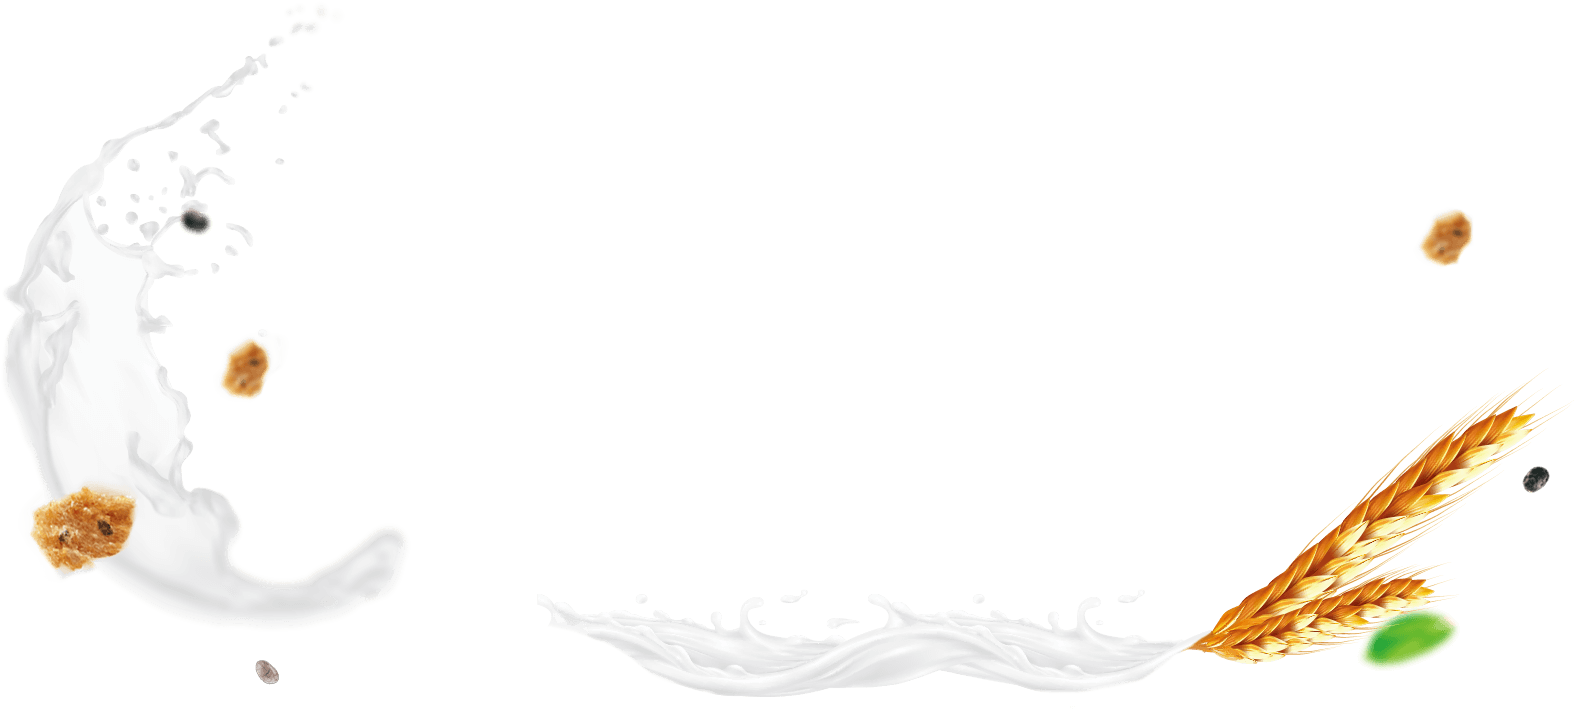
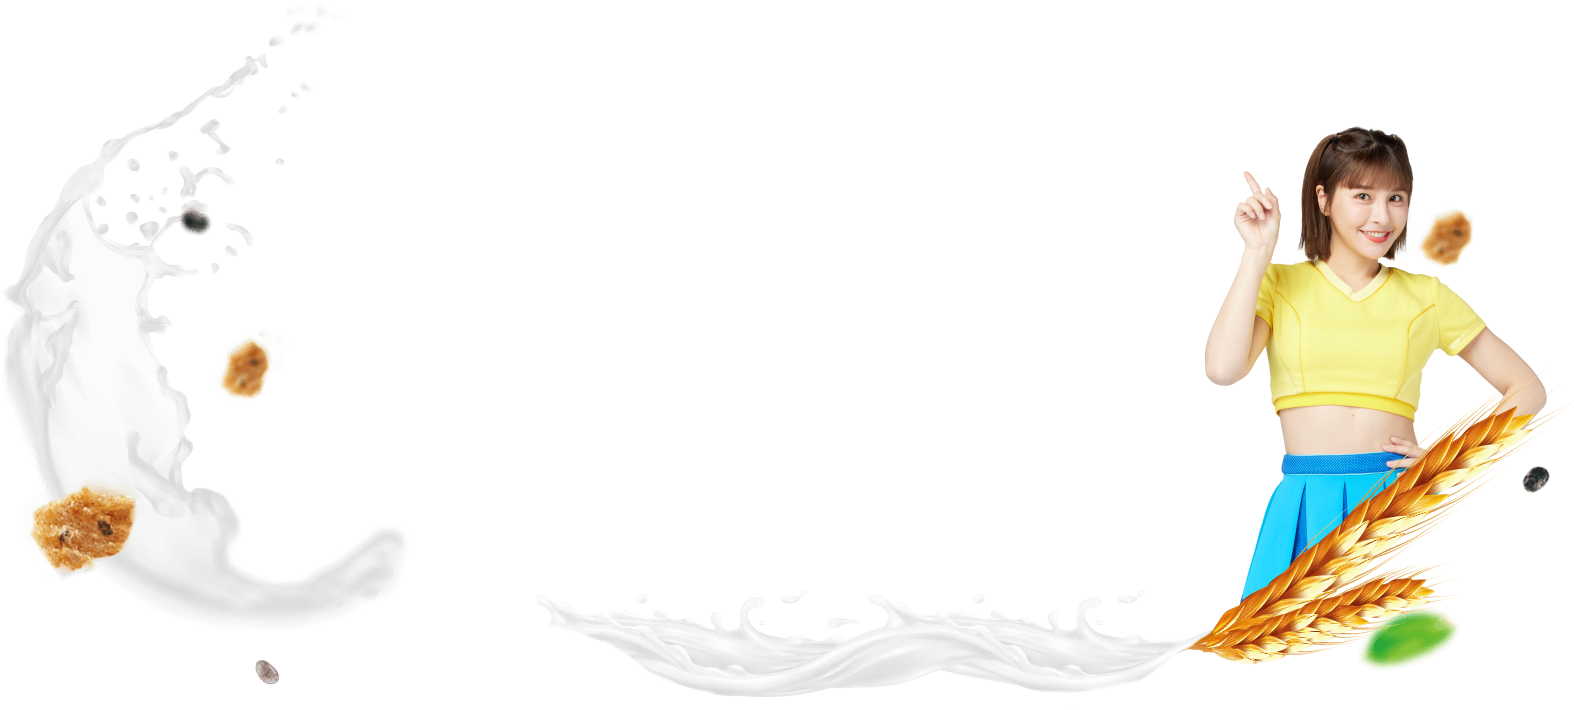
add character on product main

Changed region(s): [[0.7471, 0.1549, 0.9962, 0.8366]]

diff --git a/css/index.sass b/css/index.sass
@@ -658,7 +658,6 @@ section#video
                     font-size: 30px
                 +rwd(750px)
                     font-size: 20px
-    
 
 section#product
     position: relative
@@ -916,6 +915,11 @@ section#product
                         content: ""
                         display: block
                         clear: both
+                    .main-character
+                        position: absolute
+                        background-image: url(../images/product_main01_character.png)
+                        background-repeat: no-repeat
+                        background-size: contain   
                     .i01
                         width: 1574px
                         height: 710px
@@ -1168,6 +1172,7 @@ section#product
                                     left: 50%
                                     transform: translate(-60%,-50%)
                                     width: 100%
+            .
             .dots
                 text-align: center
                 position: relative

diff --git a/css/index.css b/css/index.css
@@ -1674,6 +1674,11 @@ section#product [class^=main] [class^=item_box] .items [class^=item] .info_box .
   transform: translate(-60%, -50%);
   width: 100%;
 }
+section#product [class^=main] [class^=item_box] .main-character {
+  background-image: url(../images/product_main01_character.png);
+  background-repeat: no-repeat;
+  background-size: contain;
+}
 section#product [class^=main] [class^=item_box] .dots {
   text-align: center;
   position: relative;

diff --git a/index.html b/index.html
@@ -157,6 +157,7 @@
           <div class="item_box">
             <div class="items">
               <div class="item01 active">
+                <!-- <div class="main-character"></div> -->
                 <div class="i01"></div>
                 <div class="bg"></div>
                 <div class="img"><img src="" ds="images/product01.png" alt="奇亞籽特濃鮮奶">
